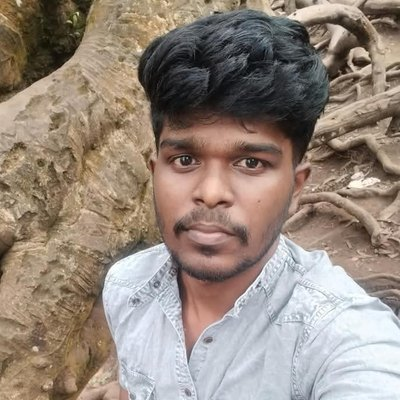
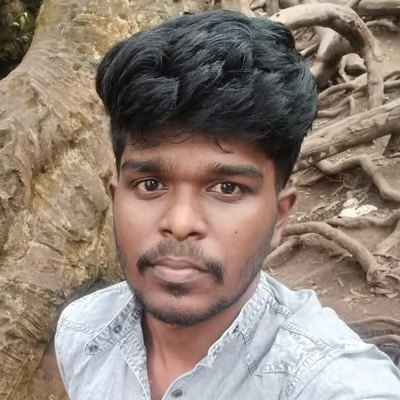
Durai Praveen's photo: shift him a little left, less tree
photoVersion 9.

Claude-Session: https://claude.ai/code/session_012xGooYthkxzBd4MHZxLafW

diff --git a/index.html b/index.html
@@ -13,7 +13,7 @@
 <link rel="preconnect" href="https://fonts.googleapis.com">
 <link rel="preconnect" href="https://fonts.gstatic.com" crossorigin>
 <link href="https://fonts.googleapis.com/css2?family=Noto+Sans+Tamil:wght@400;600;700;800&display=swap" rel="stylesheet">
-<link rel="stylesheet" href="assets/css/style.css?v=20261124b">
+<link rel="stylesheet" href="assets/css/style.css?v=20261124c">
 </head>
 <body data-page="home">
 
@@ -110,9 +110,9 @@
   </div>
 </footer>
 
-<script src="assets/js/config.js?v=20261124b"></script>
-<script src="assets/js/panchang.js?v=20261124b"></script>
-<script src="assets/js/decor.js?v=20261124b"></script>
-<script src="assets/js/app.js?v=20261124b"></script>
+<script src="assets/js/config.js?v=20261124c"></script>
+<script src="assets/js/panchang.js?v=20261124c"></script>
+<script src="assets/js/decor.js?v=20261124c"></script>
+<script src="assets/js/app.js?v=20261124c"></script>
 </body>
 </html>

diff --git a/accounts.html b/accounts.html
@@ -10,7 +10,7 @@
 <link rel="preconnect" href="https://fonts.googleapis.com">
 <link rel="preconnect" href="https://fonts.gstatic.com" crossorigin>
 <link href="https://fonts.googleapis.com/css2?family=Noto+Sans+Tamil:wght@400;600;700;800&display=swap" rel="stylesheet">
-<link rel="stylesheet" href="assets/css/style.css?v=20261124b">
+<link rel="stylesheet" href="assets/css/style.css?v=20261124c">
 </head>
 <body data-page="accounts">
 
@@ -60,8 +60,8 @@
   </div>
 </footer>
 
-<script src="assets/js/config.js?v=20261124b"></script>
-<script src="assets/js/decor.js?v=20261124b"></script>
-<script src="assets/js/app.js?v=20261124b"></script>
+<script src="assets/js/config.js?v=20261124c"></script>
+<script src="assets/js/decor.js?v=20261124c"></script>
+<script src="assets/js/app.js?v=20261124c"></script>
 </body>
 </html>

diff --git a/contact.html b/contact.html
@@ -10,7 +10,7 @@
 <link rel="preconnect" href="https://fonts.googleapis.com">
 <link rel="preconnect" href="https://fonts.gstatic.com" crossorigin>
 <link href="https://fonts.googleapis.com/css2?family=Noto+Sans+Tamil:wght@400;600;700;800&display=swap" rel="stylesheet">
-<link rel="stylesheet" href="assets/css/style.css?v=20261124b">
+<link rel="stylesheet" href="assets/css/style.css?v=20261124c">
 </head>
 <body data-page="contact">
 
@@ -78,8 +78,8 @@
   </div>
 </footer>
 
-<script src="assets/js/config.js?v=20261124b"></script>
-<script src="assets/js/decor.js?v=20261124b"></script>
-<script src="assets/js/app.js?v=20261124b"></script>
+<script src="assets/js/config.js?v=20261124c"></script>
+<script src="assets/js/decor.js?v=20261124c"></script>
+<script src="assets/js/app.js?v=20261124c"></script>
 </body>
 </html>

diff --git a/members.html b/members.html
@@ -10,7 +10,7 @@
 <link rel="preconnect" href="https://fonts.googleapis.com">
 <link rel="preconnect" href="https://fonts.gstatic.com" crossorigin>
 <link href="https://fonts.googleapis.com/css2?family=Noto+Sans+Tamil:wght@400;600;700;800&display=swap" rel="stylesheet">
-<link rel="stylesheet" href="assets/css/style.css?v=20261124b">
+<link rel="stylesheet" href="assets/css/style.css?v=20261124c">
 </head>
 <body data-page="members">
 
@@ -56,8 +56,8 @@
   </div>
 </footer>
 
-<script src="assets/js/config.js?v=20261124b"></script>
-<script src="assets/js/decor.js?v=20261124b"></script>
-<script src="assets/js/app.js?v=20261124b"></script>
+<script src="assets/js/config.js?v=20261124c"></script>
+<script src="assets/js/decor.js?v=20261124c"></script>
+<script src="assets/js/app.js?v=20261124c"></script>
 </body>
 </html>

diff --git a/assets/js/config.js b/assets/js/config.js
@@ -18,7 +18,7 @@ window.VI_CONFIG = {
      e.g. photos/VEL-001.jpg. No photo = the member's initials are shown. */
   photoFolder: 'photos/',
   photoExt: '.jpg',
-  photoVersion: 8,          // raise by 1 after replacing a photo, so browsers fetch the new one
+  photoVersion: 9,          // raise by 1 after replacing a photo, so browsers fetch the new one
 
   /* Codes to leave off the members wall, e.g. ['VEL-014'].
      Their payments still count in the accounts. */
